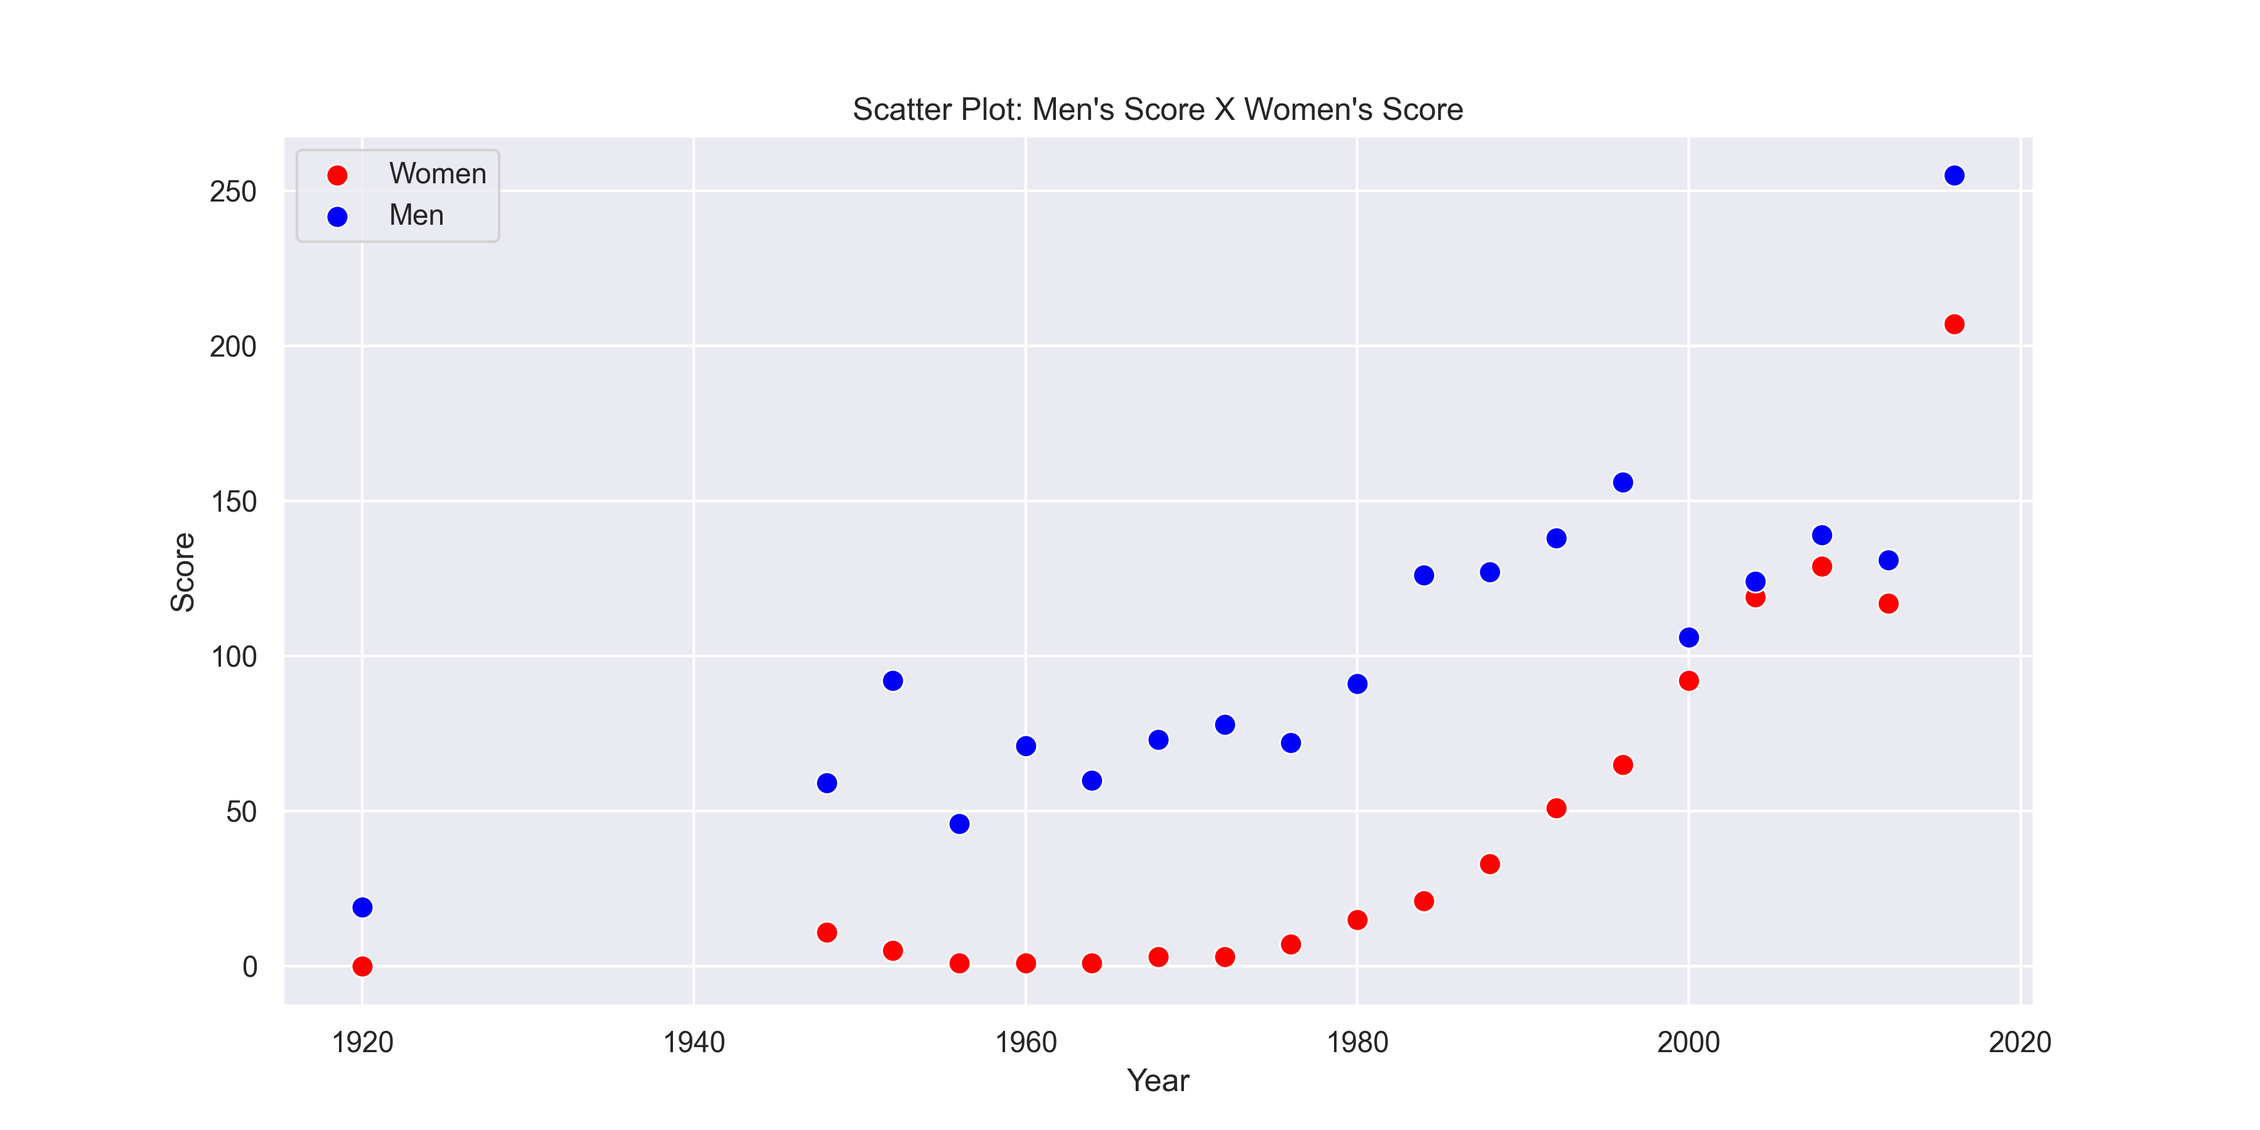
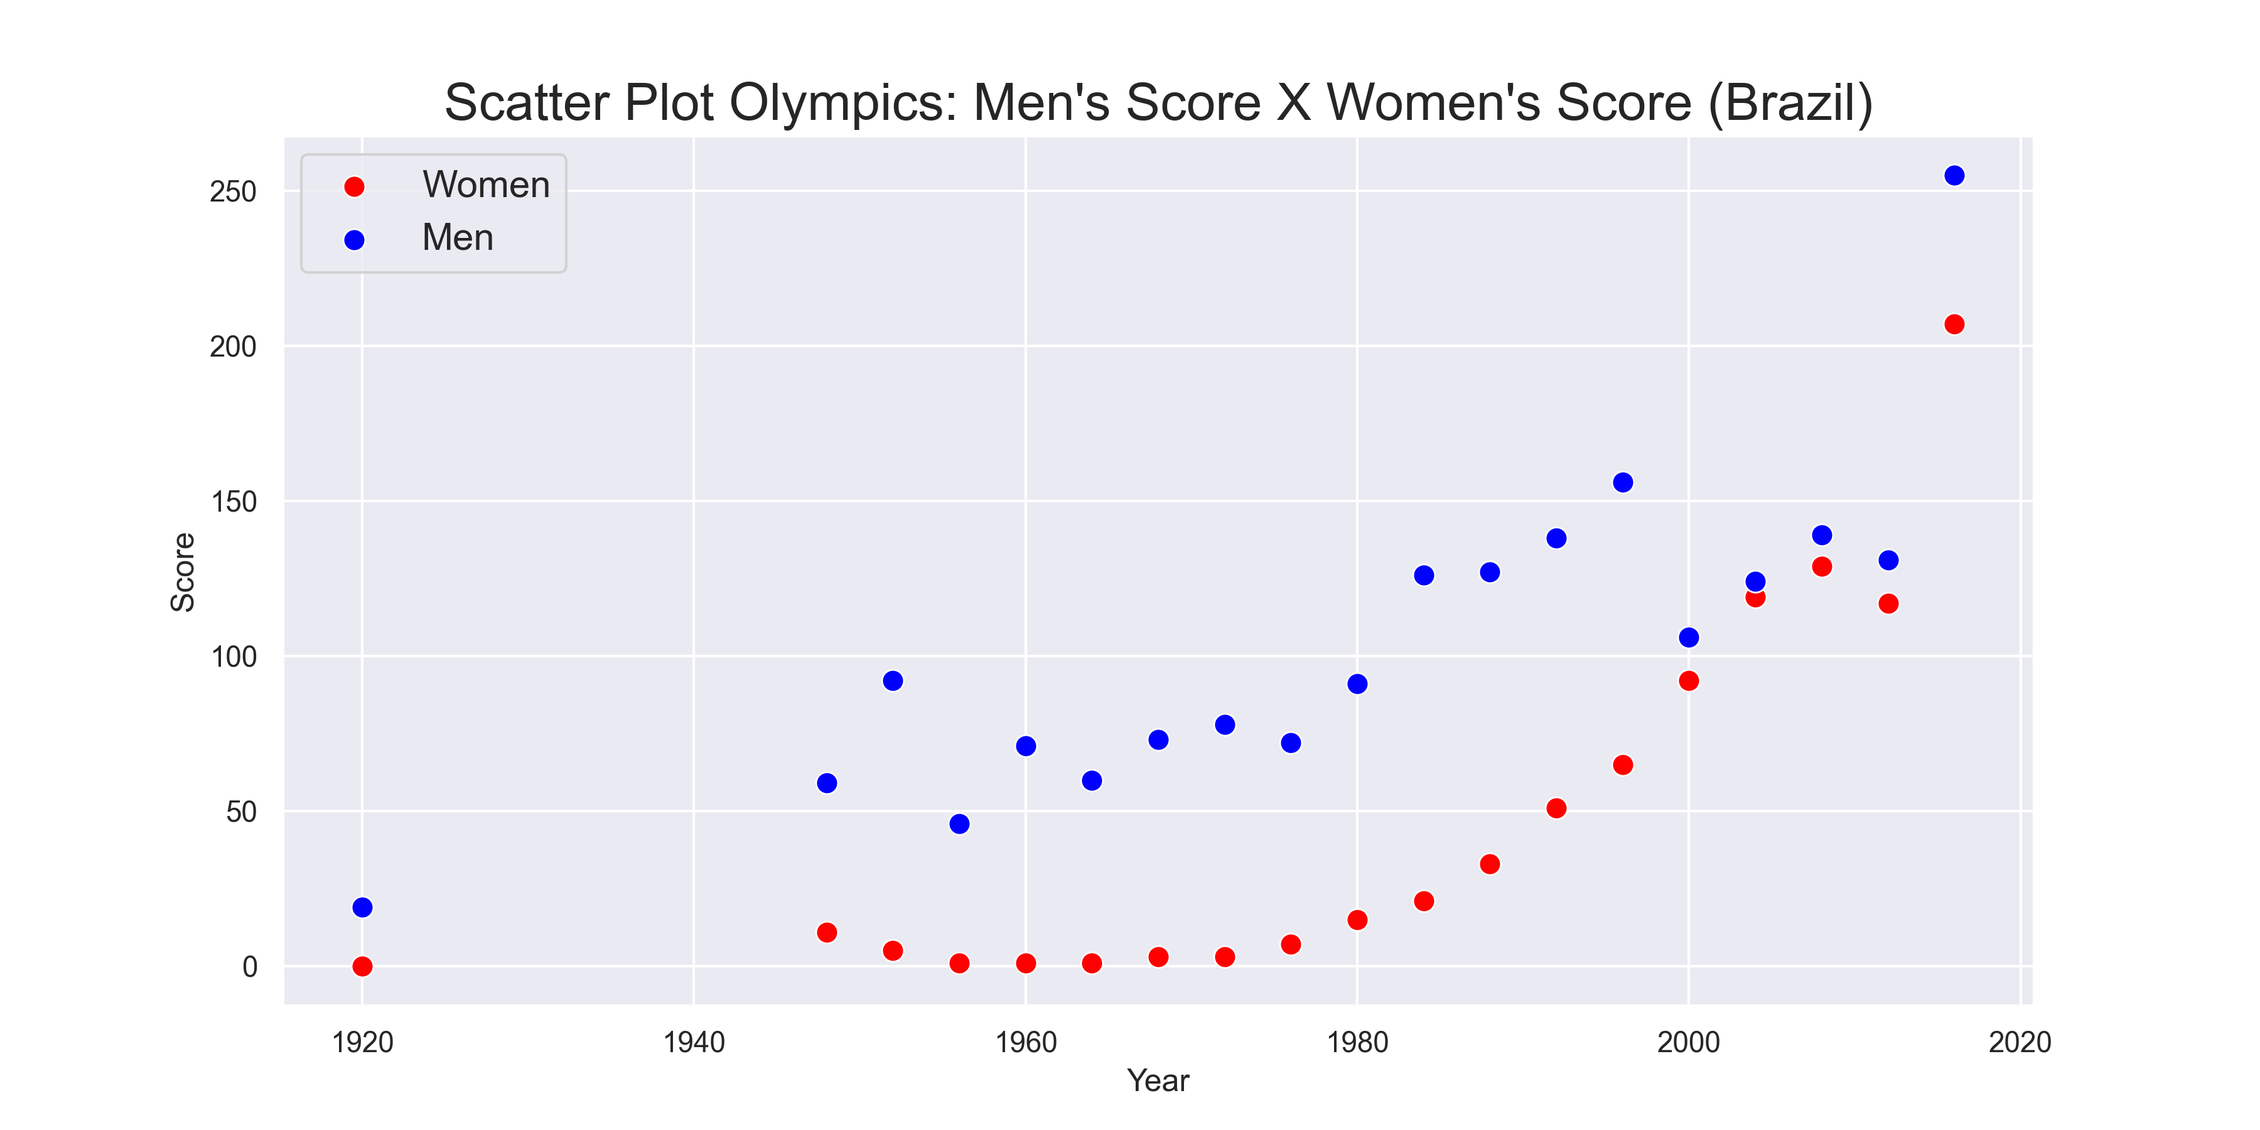
Documentação das funções e remoção dos DataFrames agrupados por esporte por serem irrelevantes para a hipotese

Changed region(s): [[0.1244, 0.0622, 0.84, 0.2489]]

diff --git a/src/womens_participation.py b/src/womens_participation.py
@@ -1,8 +1,6 @@
 """Módulo com funções para análise e visualização de participação e rendimento dos atletas do Brasil comparado com o mundo."""
 
 import pandas as pd
-import numpy as np
-import seaborn as sns
 from data_cleaner import *
 
 
@@ -109,6 +107,7 @@ def create_dataframes() -> tuple:
     Returns:
         tuple: dataframes para análise
     """
+    # Preparação dos DataFrames para as análises
     df1 = pd.read_csv("data/athlete_events.csv")
     df2 = pd.read_csv("data/modified_medal_athlete.csv")
     df3 = pd.read_csv("data/summer_paralympics.csv")
@@ -117,7 +116,7 @@ def create_dataframes() -> tuple:
     df3.sort_values(by=['Year'], inplace=True)
     df1 = medals_to_int(df1)
 
-    # Analise 1: Participacao e rendimento dos atletas do brasil comparado com o mundo (agrupado por ano)
+    # Analise 1: Participacao e rendimento das atletas do brasil comparado com o mundo (agrupado por ano)
     # Separado em paises por ano
     df_olymp_countries = df1.drop_duplicates(['Year', 'Name'])
     df_olymp_countries = count_athletes(df_olymp_countries, *['Year', 'NOC','Sex'])
@@ -133,7 +132,7 @@ def create_dataframes() -> tuple:
     df_paralymp.rename(columns={'Women': 'F_Athletes', 'Men': 'M_Athletes', 'P_Total': 'Total_Athletes'}, inplace=True)
 
     # Conta a quantidade de medalhas separada pelo genero do atleta e agrupada por ano
-    # Quantidade de medalhas por país por ano
+    # Quantidade de medalhas em olimpiadas e paralimpiadas por país e por ano
     df_aux = update_medals_or_score(df1, 'Medal', *['Year', 'NOC', 'Sex'], **{'F': 'F_Medal', 'M': 'M_Medal'})
     df_olymp_countries = merge_by_country(df_olymp_countries, df_aux)
 
@@ -141,6 +140,7 @@ def create_dataframes() -> tuple:
     df_paralymp_countries = merge_by_country(df_paralymp_countries, df_aux)
     df_paralymp_countries.dropna(inplace=True)
 
+    # Quantidade de medalhas em olimpiadas e paralimpiadas apenas por ano
     df_aux = update_medals_or_score(df1, 'Medal', *['Year', 'Sex'], **{'F': 'F_Medal', 'M': 'M_Medal'})
     df_olymp = merge_by_year(df_olymp, df_aux)
 
@@ -148,78 +148,40 @@ def create_dataframes() -> tuple:
     df_paralymp = merge_by_year(df_paralymp, df_aux)
     df_paralymp.dropna(inplace=True)
 
-    # Pontuacao do pais por ano (baseado no peso das medalhas)
+    # Pontuacao dos atletas do pais por ano (baseado no peso das medalhas em olimpiadas): Usaremos como base para o rendimento dos atletas
     df_aux = update_medals_or_score(df1, 'Score', *['Year', 'NOC', 'Sex'], **{'F': 'F_Score', 'M': 'M_Score'})
     df_olymp_countries = merge_by_country(df_olymp_countries, df_aux)
     df_olymp_countries[df_olymp_countries.columns.difference(['NOC'])] = df_olymp_countries[df_olymp_countries.columns.difference(['NOC'])].astype(int)
 
+    # Pontuacao dos atletas do pais por ano (baseado no peso das medalhas em paralimpiadas)
     df_aux = update_medals_or_score(df2, 'Score', *['Games_year', 'Npc_new', 'Sex'], **{'Games_year': 'Year','Npc_new': 'NOC', 'F': 'F_Score', 'M': 'M_Score'})
     df_paralymp_countries = merge_by_country(df_paralymp_countries, df_aux)
     df_paralymp_countries.dropna(inplace=True)
     df_paralymp_countries[df_paralymp_countries.columns.difference(['NOC'])] = df_paralymp_countries[df_paralymp_countries.columns.difference(['NOC'])].astype(int)
 
+    # Pontuação dos atletas apenas por ano (baseado no peso das medalhas em olimpiadas)
     df_aux = update_medals_or_score(df1, 'Score', *['Year', 'Sex'], **{'F': 'F_Score', 'M': 'M_Score'})
     df_olymp = merge_by_year(df_olymp, df_aux).astype(int)
 
+    # Pontuação dos atletas apenas por ano (baseado no peso das medalhas em paralimpiadas)
     df_aux = update_medals_or_score(df2, 'Score', *['Games_year', 'Sex'], **{'Games_year': 'Year', 'F': 'F_Score', 'M': 'M_Score'})
     df_paralymp = merge_by_year(df_paralymp, df_aux)
 
+    # Remove os valores nulos e converte para inteiro
     df_paralymp.dropna(inplace=True)
     df_paralymp = df_paralymp.astype('int64')
 
+    return df_olymp, df_olymp_countries, df_paralymp, df_paralymp_countries
 
-    # Analise 2: Participacao e rendimento dos atletas do brasil comparado com o mundo (agrupado por esporte)
-    df2_olymp = df1.drop_duplicates(['Year','Sport', 'Name'])
-    df2_olymp = count_athletes(df2_olymp, *['Year', 'Sport','Sex'])
+def estimate_statistics(df: pd.DataFrame) -> pd.DataFrame:
+    """Função que calcula as estatisticas fornecidas pelo describe com possiveis linhas nulas e sem linhas nulas em DataFrames separados
 
-    df2_paralymp = df2.drop_duplicates(['Games_year','Sport', 'Athlete_name'])
-    df2_paralymp = count_athletes(df2_paralymp, *['Games_year','Sport', 'Sex'])
-    df2_paralymp.rename(columns={'Games_year': 'Year'}, inplace=True)
+    Args:
+        df (pd.DataFrame): DataFrame com as colunas 'F_Athletes', 'F_Medal' e 'F_Score'
 
-    # Olimpiada e Paralimpiada por esporte no Brasil
-    df2_olymp_bra = df1[df1['NOC'] == 'BRA']
-    df2_olymp_bra = df2_olymp_bra.drop_duplicates(['Year','Sport', 'Name'])
-    df2_olymp_bra = count_athletes(df2_olymp_bra, *['Year', 'Sport','Sex']) 
-
-    df2_paralymp_bra = df2[df2['Npc_new'] == 'BRA']
-    df2_paralymp_bra = df2_paralymp_bra.drop_duplicates(['Games_year','Sport', 'Athlete_name'])
-    df2_paralymp_bra = count_athletes(df2_paralymp_bra, *['Games_year','Sport', 'Sex']) 
-    df2_paralymp_bra.rename(columns={'Games_year': 'Year'}, inplace=True)
-
-    # Quantidade de medalhas por esporte e por ano
-    df_aux = update_medals_or_score(df1, 'Medal', *['Year', 'Sport', 'Sex'], **{'F': 'F_Medal', 'M': 'M_Medal'})
-    df2_olymp = merge_by_sport(df2_olymp, df_aux)
-
-    df_aux = update_medals_or_score(df2, 'Medal', *['Games_year', 'Sport', 'Sex'], **{'Games_year': 'Year', 'F': 'F_Medal', 'M': 'M_Medal'})
-    df2_paralymp = merge_by_sport(df2_paralymp, df_aux)
-    df2_paralymp.dropna(inplace=True)
-
-    df_aux = update_medals_or_score(df1[df1['NOC'] == 'BRA'], 'Medal', *['Year', 'Sport', 'Sex'], **{'F': 'F_Medal', 'M': 'M_Medal'})
-    df2_olymp_bra = merge_by_sport(df2_olymp_bra, df_aux)
-
-    df_aux = update_medals_or_score(df2[df2['Npc_new'] == 'BRA'], 'Medal', *['Games_year', 'Sport', 'Sex'], **{'Games_year': 'Year', 'F': 'F_Medal', 'M': 'M_Medal'})
-    df2_paralymp_bra = merge_by_sport(df2_paralymp_bra, df_aux)
-
-    # Pontuacao do pais por esporte (baseado no peso das medalhas)
-    df_aux = update_medals_or_score(df1, 'Score', *['Year', 'Sport', 'Sex'], **{'F': 'F_Score', 'M': 'M_Score'})
-    df2_olymp = merge_by_sport(df2_olymp, df_aux)
-    df2_olymp[df2_olymp.columns.difference(['Sport'])] = df2_olymp[df2_olymp.columns.difference(['Sport'])].astype(int)
-
-    df_aux = update_medals_or_score(df2, 'Score', *['Games_year', 'Sport', 'Sex'], **{'Games_year': 'Year', 'F': 'F_Score', 'M': 'M_Score'})
-    df2_paralymp = merge_by_sport(df2_paralymp, df_aux)
-    df2_paralymp[df2_paralymp.columns.difference(['Sport'])] = df2_paralymp[df2_paralymp.columns.difference(['Sport'])].astype(int)
-
-    df_aux = update_medals_or_score(df1[df1['NOC'] == 'BRA'], 'Score', *['Year', 'Sport', 'Sex'], **{'F': 'F_Score', 'M': 'M_Score'})
-    df2_olymp_bra = merge_by_sport(df2_olymp_bra, df_aux)
-    df2_olymp_bra[df2_olymp_bra.columns.difference(['Sport'])] = df2_olymp_bra[df2_olymp_bra.columns.difference(['Sport'])].astype(int)
-
-    df_aux = update_medals_or_score(df2[df2['Npc_new'] == 'BRA'], 'Score', *['Games_year', 'Sport', 'Sex'], **{'Games_year': 'Year', 'F': 'F_Score', 'M': 'M_Score'})
-    df2_paralymp_bra = merge_by_sport(df2_paralymp_bra, df_aux)
-    df2_paralymp_bra[df2_paralymp_bra.columns.difference(['Sport'])] = df2_paralymp_bra[df2_paralymp_bra.columns.difference(['Sport'])].astype(int)
-
-    return df_olymp, df_olymp_countries, df_paralymp, df_paralymp_countries, df2_olymp, df2_olymp_bra, df2_paralymp, df2_paralymp_bra
-
-def estimate_statistics(df):
+    Returns:
+        pd.DataFrame: DataFrame com possiveis linhas nulas e DataFrame sem linhas nulas concatenados
+    """
     df_with_outliers = df[['F_Athletes', 'F_Medal', 'F_Score']].describe()    
     df = df[(df['F_Athletes'] > 0) & (df['F_Medal'] > 0) & (df['F_Score'] > 0)]
     df_without_outliers = df[['F_Athletes', 'F_Medal', 'F_Score']].describe()

diff --git a/src/womens_participation_graphs.py b/src/womens_participation_graphs.py
@@ -1,13 +1,12 @@
 """Módulo para geração de gráficos de dispersão comparando a participação e desempenho de atletas masculinos e femininos nas Olimpíadas e Paralimpíadas."""
 
 import pandas as pd
-import numpy as np
 import seaborn as sns
 import matplotlib.pyplot as plt
 from data_cleaner import *
 from womens_participation import *
 
-olymp_df, olymp_countries_df, paralymp_df, paralymp_countries_df, olymp_sports_df, olymp_sports_bra_df, paralymp_sports_df, paralymp_sports_bra_df  = create_dataframes()
+olymp_df, olymp_countries_df, paralymp_df, paralymp_countries_df = create_dataframes()
 
 def plot_scatter_graph(df: pd.DataFrame, x: str, y1: str, y2: str, title: str, score_or_amount: str) -> plt:
     """Função que recebe um DataFrame e plota um gráfico de dispersão com os dados de duas variáveis.
@@ -20,34 +19,56 @@ def plot_scatter_graph(df: pd.DataFrame, x: str, y1: str, y2: str, title: str, s
         title (str): Título do gráfico.
         score_or_amount (str): Rótulo do eixo y.
     """
-    # Criando o gráfico de dispersão
     plt.figure(figsize=(12, 6))
     sns.scatterplot(x=x, y=y1, data=df, label='Women', color='red', s=70)
     sns.scatterplot(x=x, y=y2, data=df, label='Men', color='blue', s=70)
 
-    # Ajustando o gráfico
     plt.xlabel('Year')
     plt.ylabel(score_or_amount)
-    plt.title(title)
+    plt.title(title, fontsize=20)
     plt.legend(loc='upper left', fontsize='large')
     return plt
     
 
 # Funcoes auxiliares para o plot dos graficos de dispersao das paralimpiadas e olimpiadas
-def filter_paralymp_score_bra():
+def filter_paralymp_score_bra() -> pd.DataFrame:
+    """Prepara o DataFrame para o grafico de dispersão dos atletas brasileiros nas paralimpiadas
+
+    Returns:
+        pd.DataFrame: DataFrame filtrado
+    """
     df_analysis_aux = paralymp_countries_df[paralymp_countries_df['NOC']=='BRA']
     df_analysis_aux = df_analysis_aux[(df_analysis_aux['M_Score'] > 0) | (df_analysis_aux['F_Score'] > 0)]
     return df_analysis_aux
 
   
-def filter_paralymp_score_global():
+def filter_paralymp_score_global() -> pd.DataFrame:
+    """Prepara o DataFrame para o grafico de dispersão dos atletas de todos os paises nas paralimpiadas
+
+    Returns:
+        pd.DataFrame: DataFrame filtrado
+    """
     df_analysis_aux = paralymp_df[(paralymp_df['M_Score'] > 0) | (paralymp_df['F_Score'] > 0)]
     return df_analysis_aux
     
     
-def filter_olympic_score_bra():
+def filter_olympic_score_bra() -> pd.DataFrame:
+    """Prepara o DataFrame para o grafico de dispersão dos atletas brasileiros nas olimpiadas
+
+    Returns:
+        pd.DataFrame: DataFrame filtrado
+    """
     df_analysis_aux = olymp_countries_df[olymp_countries_df['NOC']=='BRA']
     df_analysis_aux = df_analysis_aux[(df_analysis_aux['M_Score'] > 0) | (df_analysis_aux['F_Score'] > 0)]
+    return df_analysis_aux
+
+def filter_olympic_score_global() -> pd.DataFrame:
+    """Prepara o DataFrame para o grafico de dispersão dos atletas de todos os paises nas olimpiadas
+
+    Returns:
+        pd.DataFrame: DataFrame filtrado
+    """
+    df_analysis_aux = olymp_df[(olymp_df['M_Score'] > 0) | (olymp_df['F_Score'] > 0)]
     return df_analysis_aux
 
     
@@ -92,12 +113,12 @@ def create_all_graphs(athletes_df: pd.DataFrame, modified_medal_athlete_df: pd.D
     return plots
 
   
-def filter_olympic_score_global():
-    df_analysis_aux = olymp_df[(olymp_df['M_Score'] > 0) | (olymp_df['F_Score'] > 0)]
-    return df_analysis_aux
+def create_table_of_stds() -> plt:
+    """Plota uma tabela 4x4 com os desvios padrão dos atletas brasileiros nas olimpiadas e paralimpiadas
 
-  
-def create_table_of_stds():
+    Returns:
+        plt: Tabela 4x4
+    """
     plt.figure()
 
     df = estimate_statistics(olymp_countries_df[olymp_countries_df['NOC']=='BRA'])
@@ -117,20 +138,3 @@ def create_table_of_stds():
     table.scale(1.2, 1.2)
     
     return plt
-
-#Pegar top 5 esportes nas olimpiadas e paralimpiadas pelo score
-auxiliar_df = olymp_sports_bra_df.groupby(['Year', 'Sport'])['F_Score'].sum().reset_index()
-#print(auxiliar_df[auxiliar_df['F_Score'] != 0])
-auxiliar_df = auxiliar_df[auxiliar_df['F_Score'] != 0].sort_values(by=['Year','F_Score'])
-auxiliar_df = auxiliar_df.groupby('Year').tail(3)
-years = auxiliar_df['Year'].unique()
-print(auxiliar_df)
-print(years)
-print(len(years))
-
-auxiliar_df = olymp_sports_bra_df.groupby(['Year', 'Sport'])['M_Score'].sum().reset_index()
-auxiliar_df = auxiliar_df[auxiliar_df['M_Score'] != 0].sort_values(by=['Year','M_Score'])
-auxiliar_df = auxiliar_df.groupby('Year').tail(3)
-years = auxiliar_df['Year'].unique()
-print(auxiliar_df)
-print(years)

diff --git a/main.py b/main.py
@@ -25,7 +25,7 @@ try:
     urbanization_df = urbanization_df[['Year', 'Country', 'Pop_Absolute', 'Urban_Pop_Percent']]
     urbanization_df = dc.urbanization_rename_countries(urbanization_df) # Renomear países para padrão do DataFrame de Atletas
     wp.clean_paralympic_atletes_dataset()
-    olymp_df, olymp_countries_df, paralymp_df, paralymp_countries_df, olymp_sports_df, olymp_sports_bra_df, paralymp_sports_df, paralymp_sports_bra_df = wp.create_dataframes()
+    olymp_df, olymp_countries_df, paralymp_df, paralymp_countries_df = wp.create_dataframes()
 
     # Análise de Densidade de Medalhas por População Urbana em 2016: Henrique
     data_2016 = mu.prepare_2016_medalist_urbanization_analysis(clean_athletes_df, urbanization_df, noc_df)
@@ -52,19 +52,19 @@ try:
     table_stds.savefig('graphs/table_stds_olympics_and_paralympics_bra.png', format='png', dpi=300)
 
     scatterplot_paralymp_score_bra_df = wpg.filter_paralymp_score_bra()
-    scatterplot_paralymp_score_bra = wpg.plot_scatter_graph(scatterplot_paralymp_score_bra_df, 'Year', 'F_Medal', 'M_Medal', 'Scatter Plot: Men\'s Score X Women\'s Score (Brazil)', 'Score')
+    scatterplot_paralymp_score_bra = wpg.plot_scatter_graph(scatterplot_paralymp_score_bra_df, 'Year', 'F_Medal', 'M_Medal', 'Scatter Plot Paralympics: Men\'s Score X Women\'s Score (Brazil)', 'Score')
     scatterplot_paralymp_score_bra.savefig('graphs/scatterplot_paralymp_score_bra.png', format='png', dpi=300)
 
     scatterplot_paralymp_score_global_df = wpg.filter_paralymp_score_global()
-    scatterplot_paralymp_score_global = wpg.plot_scatter_graph(scatterplot_paralymp_score_global_df, 'Year', 'F_Athletes', 'M_Athletes', 'Scatter Plot: Men\'s Score X Women\'s Score', 'Score')
+    scatterplot_paralymp_score_global = wpg.plot_scatter_graph(scatterplot_paralymp_score_global_df, 'Year', 'F_Athletes', 'M_Athletes', 'Scatter Plot Paralympics: Men\'s Score X Women\'s Score (Global)', 'Score')
     scatterplot_paralymp_score_global.savefig('graphs/scatterplot_paralymp_score_global.png', format='png', dpi=300)
 
     scatterplot_olymp_score_global_df = wpg.filter_olympic_score_global()
-    scatterplot_olymp_score_global = wpg.plot_scatter_graph(scatterplot_olymp_score_global_df, 'Year', 'F_Athletes', 'M_Athletes', 'Scatter Plot: Men\'s Score X Women\'s Score', 'Score')
+    scatterplot_olymp_score_global = wpg.plot_scatter_graph(scatterplot_olymp_score_global_df, 'Year', 'F_Athletes', 'M_Athletes', 'Scatter Plot Olympics: Men\'s Score X Women\'s Score (Global)', 'Score')
     scatterplot_olymp_score_global.savefig('graphs/scatterplot_olymp_score_global.png', format='png', dpi=300)
 
     scatterplot_olymp_score_bra_df = wpg.filter_olympic_score_bra()
-    scatterplot_olymp_score_bra = wpg.plot_scatter_graph(scatterplot_olymp_score_bra_df, 'Year', 'F_Athletes', 'M_Athletes', 'Scatter Plot: Men\'s Score X Women\'s Score', 'Score')
+    scatterplot_olymp_score_bra = wpg.plot_scatter_graph(scatterplot_olymp_score_bra_df, 'Year', 'F_Athletes', 'M_Athletes', 'Scatter Plot Olympics: Men\'s Score X Women\'s Score (Brazil)', 'Score')
     scatterplot_olymp_score_bra.savefig('graphs/scatterplot_olymp_score_bra.png', format='png', dpi=300)
     
     # Análise dos Atributos Físicos dos Atletas: Carlos

diff --git a/src/coeficient_functions.py b/src/coeficient_functions.py
@@ -2,6 +2,7 @@
 import numpy as np
 import pandas as pd
 import doctest
+import math
 from sklearn.feature_selection import SelectKBest, chi2
 
 
@@ -100,6 +101,50 @@ def corr(df: pd.DataFrame, quanti_1: str, quanti_2: str, is_sample: bool = True)
     corr = cov / (std_1 * std_2)
 
     return corr
+
+def qui2(df, quali1, quali2, is_sample=True):
+    # Agruprando pelas classes iguais
+    df = df.groupby([quali1, quali2]).count()
+    # display(df.head())
+    df = df.unstack(level=quali2)
+    df['Total'] = df.apply('sum', axis=1)
+    df.loc['Total', :] = df.apply('sum')
+
+    # Calcula as frequencias relativas as colunas
+    df_relative = df.apply(lambda x: x/x[:-1].sum())
+    df_expected = df.apply(lambda x: x*df_relative.Total)
+
+    df_qui = (df - df_expected)**2
+    df_qui /= df_expected
+    
+    # display(df)
+    
+    # display(df_relative)
+
+    # display(df_expected)
+
+    # display(df_qui)
+
+    qui2 = df_qui.iloc[:-1, :-1].sum().sum()
+
+    return qui2, df.shape[0]-1, df.shape[1]-1
+    
+
+def coeficientes_qui2(df: pd.DataFrame, quali_1: str, quali_2: str, is_sample: bool =True) -> float:
+    
+    # Obtem o qui2
+    qui_2, rows, columns = qui2(df, quali_1, quali_2, is_sample)
+    
+    # Coeficiente de contigencia
+    C = math.sqrt(qui_2/(qui_2+df.shape[0]))
+
+    # Coeficente T
+    T = math.sqrt(qui_2/(df.shape[0].math.sqrt((rows-1)(columns-1))))
+
+    # Coeficient V Cramer
+    V = math.sqrt(qui_2/(df.shape[0]*min([rows, columns])))
+     
+    return C, T, V
 
 
 if __name__ == "__main__":

diff --git a/src/data_cleaner.py b/src/data_cleaner.py
@@ -234,9 +234,10 @@ def clean_paralympic_atletes_dataset() -> None:
     df = pd.read_csv("data/medal_athlete.csv")
     df.rename(columns={column: column.capitalize() for column in df.columns}, inplace=True)
     df = medals_to_int(df)
-    df['Sex'] = np.nan
-    df.loc[df['Event'].str.contains('Men', case=False, na=False), ['Sex']] = 'M'
-    df.loc[df['Event'].str.contains('Women', case=False, na=False), ['Sex']] = 'F'
+    # df['Sex'] = np.nan
+
+    df.loc[df['Event'].astype(str).str.contains('Men', case=False, na=False), ['Sex']] = 'M'
+    df.loc[df['Event'].astype(str).str.contains('Women', case=False, na=False), ['Sex']] = 'F'
 
     # Variaveis auxiliares para verificar se a quantidade de atletas removidos esta correta
     identified_athletes = df[(df['Sex'] == 'F') | (df['Sex'] == 'M')]
